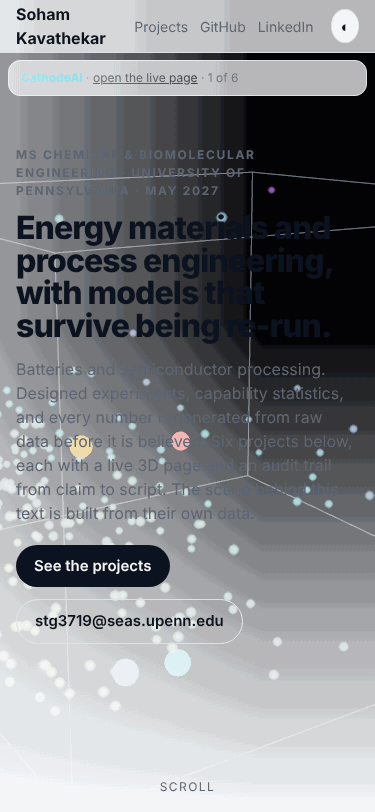
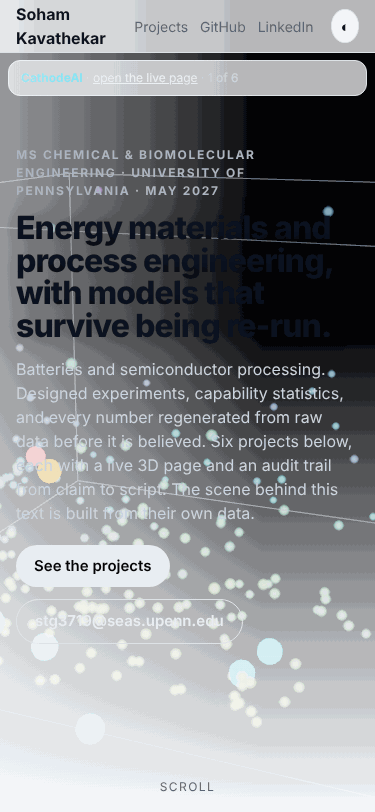
Keep the hero copy light in both themes, since it sits over the dark 3D stage

diff --git a/docs/index.html b/docs/index.html
@@ -41,7 +41,8 @@
 @media (prefers-color-scheme:dark){:root:not([data-theme="light"]){--bg:#0a0a0b;--bg2:#111115;--line:#23232b;--card:#141419;--c1:#22d3ee;--c2:#ff7a1a;--c3:#f43f5e;--c4:#a78bfa;--c5:#f59e0b;--c6:#f97316}}
 :root[data-theme="dark"]{--bg:#0a0a0b;--bg2:#111115;--line:#23232b;--card:#141419;--c1:#22d3ee;--c2:#ff7a1a;--c3:#f43f5e;--c4:#a78bfa;--c5:#f59e0b;--c6:#f97316}
 section{position:relative;z-index:2;background:var(--bg);padding:84px 0}section.alt{background:var(--bg2)}
-.hero .copy{top:16%;bottom:auto}.hero h1{max-width:18ch}
+.hero .copy{top:16%;bottom:auto;--ink:#e6edf3;--muted:#c9d4e2;--bg:#0a0a0b}.hero h1{max-width:18ch;text-shadow:0 2px 24px rgba(0,0,0,.45)}.hero .copy .kicker{color:#aab4c3}.now{--ink:#e6edf3;--muted:#c9d4e2;background:rgba(10,10,11,.6)}
+.bands{background:linear-gradient(180deg,transparent,color-mix(in srgb,var(--bg) 70%,transparent) 40%)}
 .bands .wrap{grid-template-columns:repeat(6,1fr)}.band.on{opacity:1;transform:translateY(-4px)}.band{opacity:.75}
 .now{position:absolute;left:16px;top:66px;font-size:13px;color:var(--muted);background:var(--glass);border:1px solid var(--line);border-radius:12px;padding:8px 12px;backdrop-filter:blur(8px);pointer-events:auto}.now a{color:var(--ink);text-decoration:underline}
 @media (max-width:820px){.bands .wrap{grid-template-columns:repeat(3,1fr)}.band:nth-child(5){grid-column:auto}.hero .copy{top:14%}}
